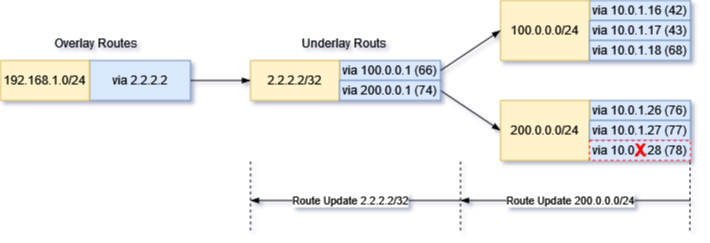
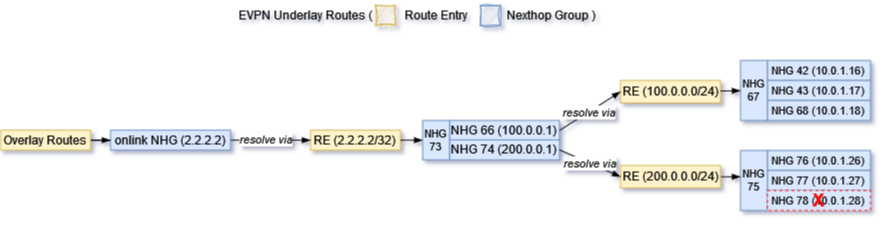
Eruan recursive (#7)
Update recursive_route.md

diff --git a/doc/recursive/recursive_route.md b/doc/recursive/recursive_route.md
@@ -8,7 +8,7 @@
 
 <!-- omit in toc -->
 ## Table of Content
-- [Scope](#scope)
+- [Goal](#goal)
 - [Requirements Overview](#requirements-overview)
 - [Zebra Current Approach for Recursive Routes](#zebra-current-approach-for-recursive-routes)
   - [Data Structure for Recursive Handling](#data-structure-for-recursive-handling)
@@ -18,15 +18,10 @@
 - [High Level Design](#high-level-design)
   - [Triggers Events for Recursive Handling](#triggers-events-for-recursive-handling)
   - [Nexthop Fixup Handling](#nexthop-fixup-handling)
-    - [Data Structure Modifications](#data-structure-modifications)
-      - [struct rnh](#struct-rnh)
-    - [zebra\_rnh\_refresh\_depends()](#zebra_rnh_refresh_depends)
+    - [Nexthop ID Change](#nexthop-id-change)
+    - [zebra\_rnh\_fixup\_depends()](#zebra_rnh_fixup_depends)
     - [Nexthop Group Proposed Changes](#nexthop-group-proposed-changes)
-    - [Nexthop Dependency State](#nexthop-dependency-state)
-    - [Segments of Nexthop Dependency](#segments-of-nexthop-dependency)
-  - [Dataplane Refresh for Recursive Route](#dataplane-refresh-for-recursive-route)
-  - [FPM's New Schema for Recursive Nexthop Group](#fpms-new-schema-for-recursive-nexthop-group)
-  - [Orchagent Changes](#orchagent-changes)
+  - [FPM and Orchagent Changes](#fpm-and-orchagent-changes)
 - [Unit Test](#unit-test)
   - [Normal Case's Forwarding Chain Information](#normal-cases-forwarding-chain-information)
   - [Test Case 1: local link failure](#test-case-1-local-link-failure)
@@ -36,14 +31,10 @@
   - [Test Case 5: Remote PE-CE link failure](#test-case-5-remote-pe-ce-link-failure)
 - [References](#references)
 
-## Scope
-This document is for reducing packet loss when Zebra handles convergence for millions of recursive routes on SONiC. Since SONiC doesn't have MPLS VPN support in master, the testing would focus on EVPN and SRv6 VPN only. 
+## Goal
+This document is for reducing packet loss window when Zebra handles convergence of recursive routes on SONiC. Since SONiC doesn't have MPLS VPN support in master, the testing would focus on EVPN and SRv6 VPN only. 
 
 ## Requirements Overview
-This HLD introducing a method for fast recovering from packet loss in the event of underlay ECMP path changes. Since Zebra serves as the control plane on SONiC, then corresponding adjustments may be made to FPM and Orchagent to collaborate with it.
-- Fpm needs to add a new schema to take each member as nexthop group ID and update APP DB. (Rely on BRCM and NTT's changes)
-- Orchagent picks up event from APP DB and trigger nexthop group programming. Neighorch needs to handle this new schema without change too much on existing codes. (Rely on BRCM and NTT's changes)
-
 Because the Linux kernel lacks support for recursive routes, FRR Zebra flattens the nexthop information of recursive routes when transferring it from Zebra to FPM or the Linux kernel. Currently, when a path goes down, Zebra would inform various protocol processes and let them replay routes update events accordingly. This leads an issue discussed in the SONiC Routing Working Group (https://lists.sonicfoundation.dev/g/sonic-wg-routing/files/SRv6%20use%20case%20-%20Routing%20WG.pptx).
 
 <figure align=center>
@@ -94,13 +85,7 @@ A brief description of Zebra's current recursive convergence process below
     <figcaption>Figure 2. route convergence process<figcaption>
 </figure>
 
-Recursive route handling is carried out during the replay of route updates, and zebra_rib_evaluate_rn_nexthops() can be seen as the entry point for this process. It starts from the incoming route node and retrieves its NHT list. Then, it iterates through each nexthop (prefix) in the NHT list, utilizing the prefix to invoke zebra_evaluate_rnh(). The processing works as follows:
-
-1. identify the new route entry to resolve the nexthop
-2. compare the new route entry with the previous one, if they are not same, update the nexthop resolving state as the new route entry, and then send a nexthop change notification to protocol clients
-3. protocol clients recalculate the path associated with the nexthop, then resend the corresponding route update to Zebra.
-4. Zebra processes this route and the route's nexthop is recursively resolved and also flattened
-6. at the end of route updating, zebra_rib_evaluate_rn_nexthops() is called with the route's NHT list, and then it returns to step 1. This loop procedure contributes to recursive route convergence
+Recursive route handling is carried out during the replay of route updates, and zebra_rib_evaluate_rn_nexthops() can be seen as the entry point for this process. It starts from the incoming route node and retrieves its NHT list. Then, it iterates through each nexthop (prefix) in the NHT list, utilizing the prefix to invoke zebra_evaluate_rnh().
 
 ## High Level Design
 
@@ -137,61 +122,55 @@ If the path 10.1.0.28 of prefix 200.0.0.0/24 is removed, Zebra will explicitly u
 
 <figure align=center>
     <img src="images/path_remove.png" >
-    <figcaption>Figure 3. the path removed for recursive route<figcaption>
+    <figcaption>Figure 3. path remove for recursive route<figcaption>
 </figure>
 
-#### Data Structure Modifications
-##### struct rnh
-zebra_rib_evaluate_rn_nexthops() triggers routes updating through nexthop backwalk. Without the assistance of protocol clients, a method needs to be introduced for looking up nexthop hash struct (nhe) based on the prefix of the NHT list. e.g. Finding the nhe based on the prefix 200.0.0.1.
+#### Nexthop ID Change
+When Zebra creates a hash entry for the NHG, it uses the IP of the nexthop and its resolved nexthop as the conditions for calculating the hash key. Therefore, every time a new nexthop is registered with Zebra, it creates a new entry, even if a corresponding hash entry already exists. As a result, the nexthop ID will also change.
 
-A new field nhe_id is added for this purpose.
-
-    struct rnh {
-        ...
-
-        /* nhe id currently associated */
-        uint32_t nhe_id;
-
-        ...
-    }
-
-This field provides information about which nhe is associated with the NHT prefix.
-
-nhg_id_rnh_add() is used to set this field and it is invoked each time a new singleton nhe is created in zebra_nhe_find().
 ``` c
-static void nhg_id_rnh_add(struct nhg_hash_entry *nhe)
-```
-``` c
-static bool zebra_nhe_find(struct nhg_hash_entry **nhe, /* return value */
-               struct nhg_hash_entry *lookup,
-               struct nhg_connected_tree_head *nhg_depends,
-               afi_t afi, bool from_dplane)
+uint32_t nexthop_group_hash(const struct nexthop_group *nhg)
 {
-    ...
+    struct nexthop *nh;
+    uint32_t key = 0;
 
-done:
-    /* Reset time since last update */
-    (*nhe)->uptime = monotime(NULL);
+    for (ALL_NEXTHOPS_PTR(nhg, nh))
+        key = jhash_1word(nexthop_hash(nh), key);
 
-    if (created)
-        nhg_id_rnh_add(*nhe);
+    return key;
+}
+```
+To facilitate the handling of nexthop fixup, it is necessary to keep it unchanged during the recursive nexthop convergence process. Therefore, we consider using the direct IP address of the nexthop instead of resolved nexthop as one of the conditions for generating the hash key.
 
-    return created;
+``` c
+uint32_t nexthop_group_hash_no_recurse(const struct nexthop_group *nhg)
+{
+	struct nexthop *nh;
+	uint32_t key = 0;
+
+	/*
+	 * We are not interested in hashing over any recursively
+	 * resolved nexthops
+	 */
+	for (nh = nhg->nexthop; nh; nh = nh->next)
+		key = jhash_1word(nexthop_hash(nh), key);
+
+	return key;
 }
 ```
 
-#### zebra_rnh_refresh_depends()
+#### zebra_rnh_fixup_depends()
 
 This newly added function is inserted into the existing route convergence process, enabling Zebra to refresh nexthops in the dataplane before notifying the protocol client of route updates.
 
 <figure align=center>
-    <img src="images/zebra_rnh_refresh_depends.png" >
-    <figcaption>Figure 5. zebra_rnh_refresh_depends()<figcaption>
+    <img src="images/zebra_rnh_fixup_depends.png" >
+    <figcaption>Figure 5. zebra_rnh_fixup_depends()<figcaption>
 </figure>
 
 The function in the blue serves a quick nexthop refreshing. It runs before the protocol client's notification for route updating.
 
-zebra_rnh_refresh_depends() is called as follows:
+zebra_rnh_fixup_depends() is called as follows
 
 ``` c
 static void zebra_rnh_eval_nexthop_entry(struct zebra_vrf *zvrf, afi_t afi,
@@ -206,10 +185,6 @@ static void zebra_rnh_eval_nexthop_entry(struct zebra_vrf *zvrf, afi_t afi,
         if (prn)
             prefix_copy(&rnh->resolved_route, &prn->p);
         else {
-                /*
-                * Just quickly store the family of the resolved
-                * route so that we can reset it in a second here
-                */
                 int family = rnh->resolved_route.family;
 
                 memset(&rnh->resolved_route, 0, sizeof(struct prefix));
@@ -219,21 +194,17 @@ static void zebra_rnh_eval_nexthop_entry(struct zebra_vrf *zvrf, afi_t afi,
         copy_state(rnh, re, nrn);
         state_changed = 1;
     } else if (compare_state(re, rnh->state)) {
-        zebra_rnh_refresh_depends(rnh, ...);        
         copy_state(rnh, re, nrn);
         state_changed = 1;
     }
     zebra_rnh_store_in_routing_table(rnh);
 
     if (state_changed || force) {
-        /* NOTE: Use the "copy" of resolving route stored in 'rnh' i.e.,
-        * rnh->state.
-        */
-        /* Notify registered protocol clients. */
+        /* New added for dataplane quick refresh */
+        zebra_rnh_fixup_depends(rnh);
+
         zebra_rnh_notify_protocol_clients(zvrf, afi, nrn, rnh, prn,
                               rnh->state);
-
-        /* Process pseudowires attached to this nexthop */
         zebra_rnh_process_pseudowires(zvrf->vrf->vrf_id, rnh);
     }
 }
@@ -241,64 +212,51 @@ static void zebra_rnh_eval_nexthop_entry(struct zebra_vrf *zvrf, afi_t afi,
 
 A brief explanation of the above process (with more detailed available in the subsequent sections):
 1. rib_process() eventually calls zebra_rnh_eval_nexthop_entry() after finishing one route updating task
-2. If a tracked nexthop has resolved paths changed (as in the if else branch where compare_state() is located in the above code snippet), zebra_rnh_refresh_depends() will be invoked for the quick dataplane fixup which might stop traffic loss via removing failed path before the protocol client notification is sent
+2. If a tracked nexthop has resolved paths changed (as in the if else branch where compare_state() is located in the above code snippet), zebra_rnh_fixup_depends() will be invoked for the quick dataplane fixup which might stop traffic loss via removing failed path before the protocol client notification is sent
 3. Zebra continues the client notify process, proceeding with the next round of recursive route iteration to refresh the resolution of nexthops to their final state
 
 #### Nexthop Group Proposed Changes
 
-As currently implemented, when Zebra adds or updates a route, it creates a new Nexthop Group (NHG) for that route. So, in the process of the route convergence mentioned above, even if the reachability of the NHG (such as 200.0.0.1) hasn't changed, this NHG will be recreated during the convergence process. As shown in the diagram, when the path 10.0.1.28 is removed, all dependent NHGs originating from it will be recreated, as indicated by the red text in the diagram.
+Assuming the initial state of EVPN underlay routes is as follows
 
 <figure align=center>
-    <img src="images/nhg_change.png" >
-    <figcaption>Figure 6. nexthop changes when routes converge in current FRR approach<figcaption>
+    <img src="images/nhg_initial_state.png" >
+    <figcaption>Figure 6. initial state of the routes<figcaption>
 </figure>
 
-In order to facilitate a quick refresh by the dataplane, the recursive NHGs meeting the following conditions should be preserved:
-- NHG of a singleton nexthop
-- NHG for a group of unchanged singleton nexthops
-
-#### Nexthop Dependency State
-
-As in the previous section, due to the NHG proposed changes, the final status of the nexthop dependency is expected as follows:
+When BGP detects the node 10.0.1.28 is down, it sends a route update to Zebra with only two remaining paths. After Zebra updates this route, it reaches the state shown in Figure 7.
 
 <figure align=center>
-    <img src="images/nhg_final_status.png" >
-    <figcaption>Figure 7. final status of the nexthop dependency of preserved NHG<figcaption>
+    <img src="images/nhg_removed_state.png" >
+    <figcaption>Figure 7. one path removed state of the routes<figcaption>
 </figure>
 
-#### Segments of Nexthop Dependency
-Assuming BGP detects the node 10.0.1.28 is down, it sends a route update to Zebra with only two remaining paths. After Zebra updates this route, it reaches the state shown in Figure 7. Using this state as the starting point, the process for a quick dataplane refresh is as follows:
+A quick dataplane refresh begins with this state as the starting point:
+1. Zebra updates this route with new NHG 90 which has the two paths, then sends the route to dataplane. This is the current approach and it would recover all traffic for route 200.0.0.0/24 in hardware.
 
-1. Zebra is informed the routes update of two paths for 200.0.0.0/24 (path 10.0.1.28 is removed), Zebra updates this route with new NHG 90 which has the two paths, then sends the route to dataplane. This is the current approach that Zebra used and it would recover all traffic for route 200.0.0.0/24 in hardware.
 <figure align=center>
-    <img src="images/current_nhg_for_dataplane.png" >
+    <img src="images/nhg_for_dataplane.png" >
 </figure>
 
-2. Zebra iterates nht list of the route 200.0.0.0/24, then hands each rnh (as above NHG74 is found) in the list to zebra_rnh_refresh_depends().
+2. Zebra iterates nht list of the route 200.0.0.0/24, then hands each rnh (NHG74 is found in this case) in the list to zebra_rnh_fixup_depends().
 <figure align=center>
     <img src="images/find_nhg_by_rnh.png" >
 </figure>
 
-3. Afterwards, zebra_rnh_refresh_depends() utilizes the rnh to locate the corresponding NHG, and proceeds with a two-step dataplane quick refresh based on the dependency relationships stored in NHG 74.
-- step a, get NHG 75 by "nhg_depends" field in struct nhg_hash_entry, replaces its path with NHG 90's, then make a quick refresh to dataplane for NHG 75
-- step b, get NHG 73 by using "nhg_dependents" field in struct nhg_hash_entry, then make a quick refresh to dataplane for NHG 73. There is no need to update NHG 73's path again, since these NHGs have unchanged dependencies in the current state, NHG 73 has five paths updated after the previous step
+3. zebra_rnh_fixup_depends() utilizes the rnh to locate the corresponding NHG 74, then by using the "nhg_dependents" field in the struct nhg_hash_entry, it performs a quick refresh to the dataplane of NHH 73, which has five paths. It will immediately reflect the reachability status of ECMP paths and prevent packet loss, as Zebra just needs to refresh the two NHGs 73, 75 into the dataplane.
 
-The steps above immediately reflect the reachability status of ECMP paths and prevent packet loss, as Zebra just needs to refresh the two NHGs 73, 75 into the dataplane.
 <figure align=center>
     <img src="images/nhg_depend_update.png" >
 </figure>
 
-4. When zebra_rnh_refresh_depends() is done, Zebra continues its original processing，calling zebra_rnh_notify_protocol_clients() to inform BGP that 200.0.0.1 as nexthop is changed.
-5. BGP triggers 2.2.2.2 and other routes updates which via 200.0.0.1. During 2.2.2.2's Zebra route handling, it may go back to step 2 for 2.2.2.2's rnh list if it is not empty. For these steps, Zebra proceeds with route convergence as usual, inform protocol client, let protocol client decides if needs to update routes based on the changes on reachability and metrics. 
+4. When zebra_rnh_fixup_depends() is done, Zebra continues its original processing，calling zebra_rnh_notify_protocol_clients() to inform BGP that 200.0.0.1 as nexthop is changed.
+5. BGP triggers 2.2.2.2 and other routes updates which via 200.0.0.1. During 2.2.2.2's Zebra route handling, it may go back to step 2 for 2.2.2.2's rnh list if it is not empty.
 
-### Dataplane Refresh for Recursive Route
-Zebra only refreshes the NHGs to the dataplane for a quick packet loss fix.
+After these steps, Zebra proceeds with route convergence as usual, inform protocol client, let protocol client decides if needs to update routes based on the changes on reachability and metrics.
 
-### FPM's New Schema for Recursive Nexthop Group
-We rely on BRCM and NTT's changes.
-
-### Orchagent Changes
-We rely on BRCM and NTT's changes.
+### FPM and Orchagent Changes
+Fpm needs to add a new schema to take each member as nexthop group ID and update APP DB. (Rely on BRCM and NTT's changes)
+Orchagent picks up event from APP DB and trigger nexthop group programming. Neighorch needs to handle this new schema without change too much on existing codes. (Rely on BRCM and NTT's changes)
 
 ## Unit Test
 ### Normal Case's Forwarding Chain Information
